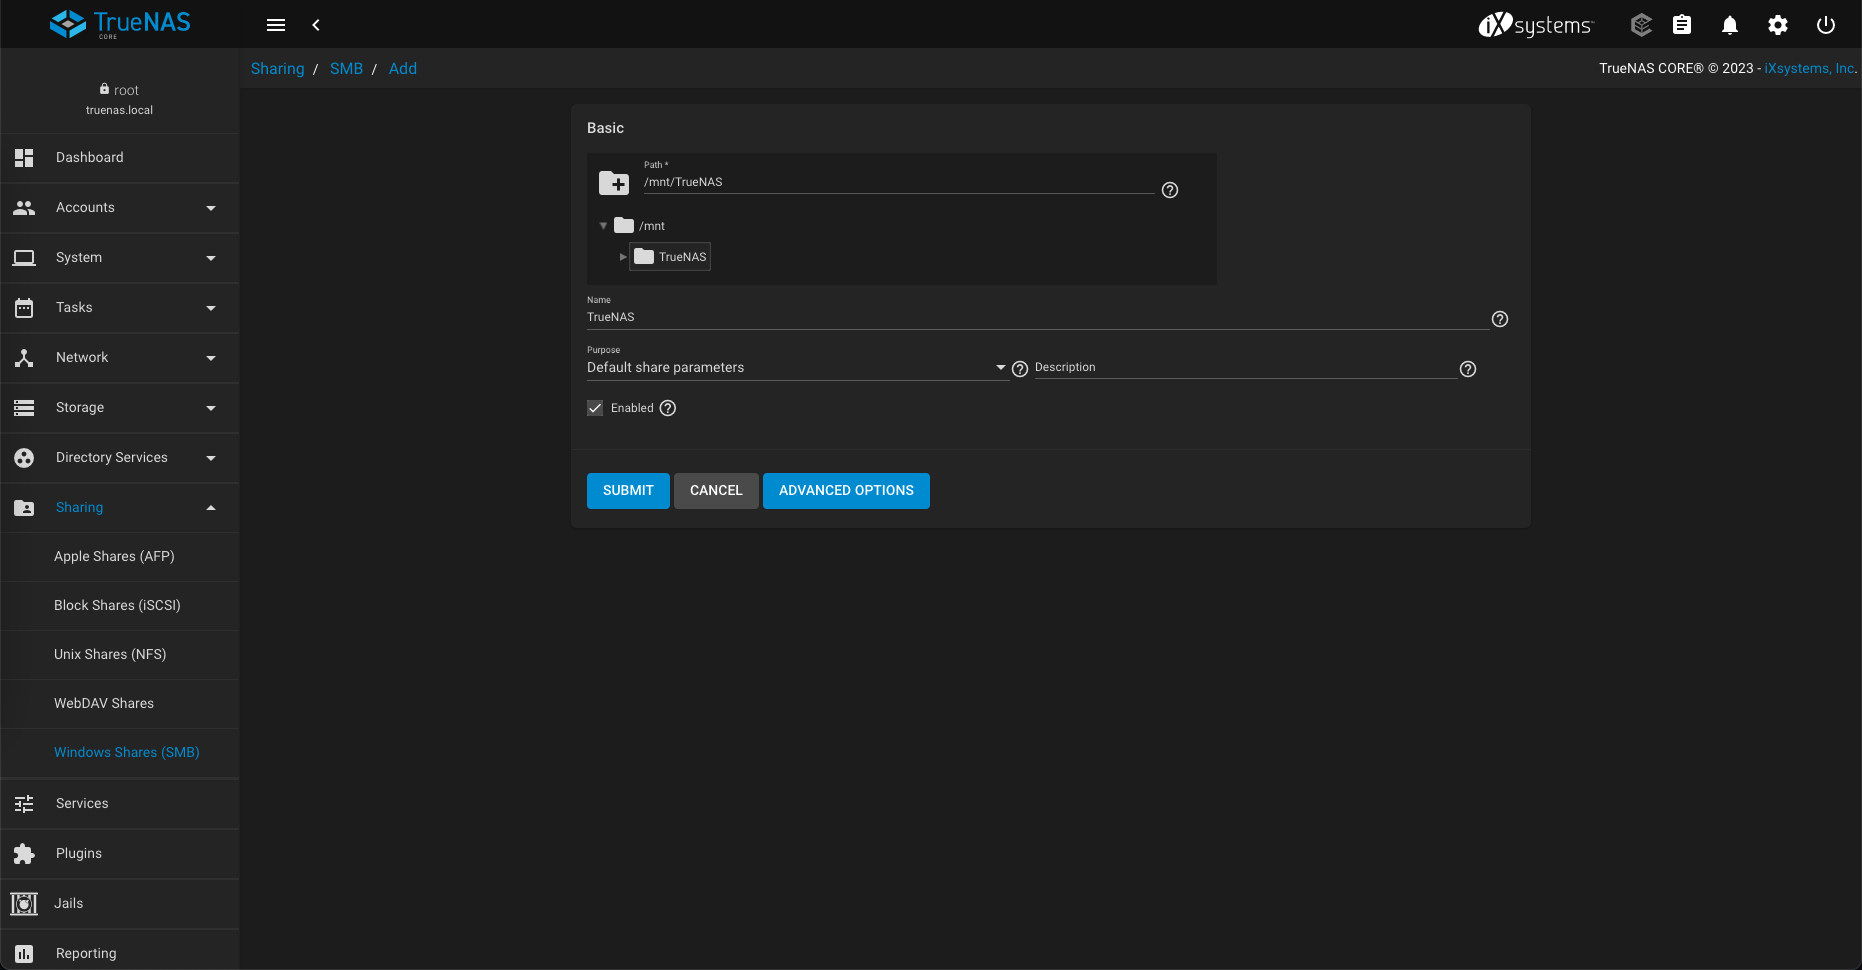
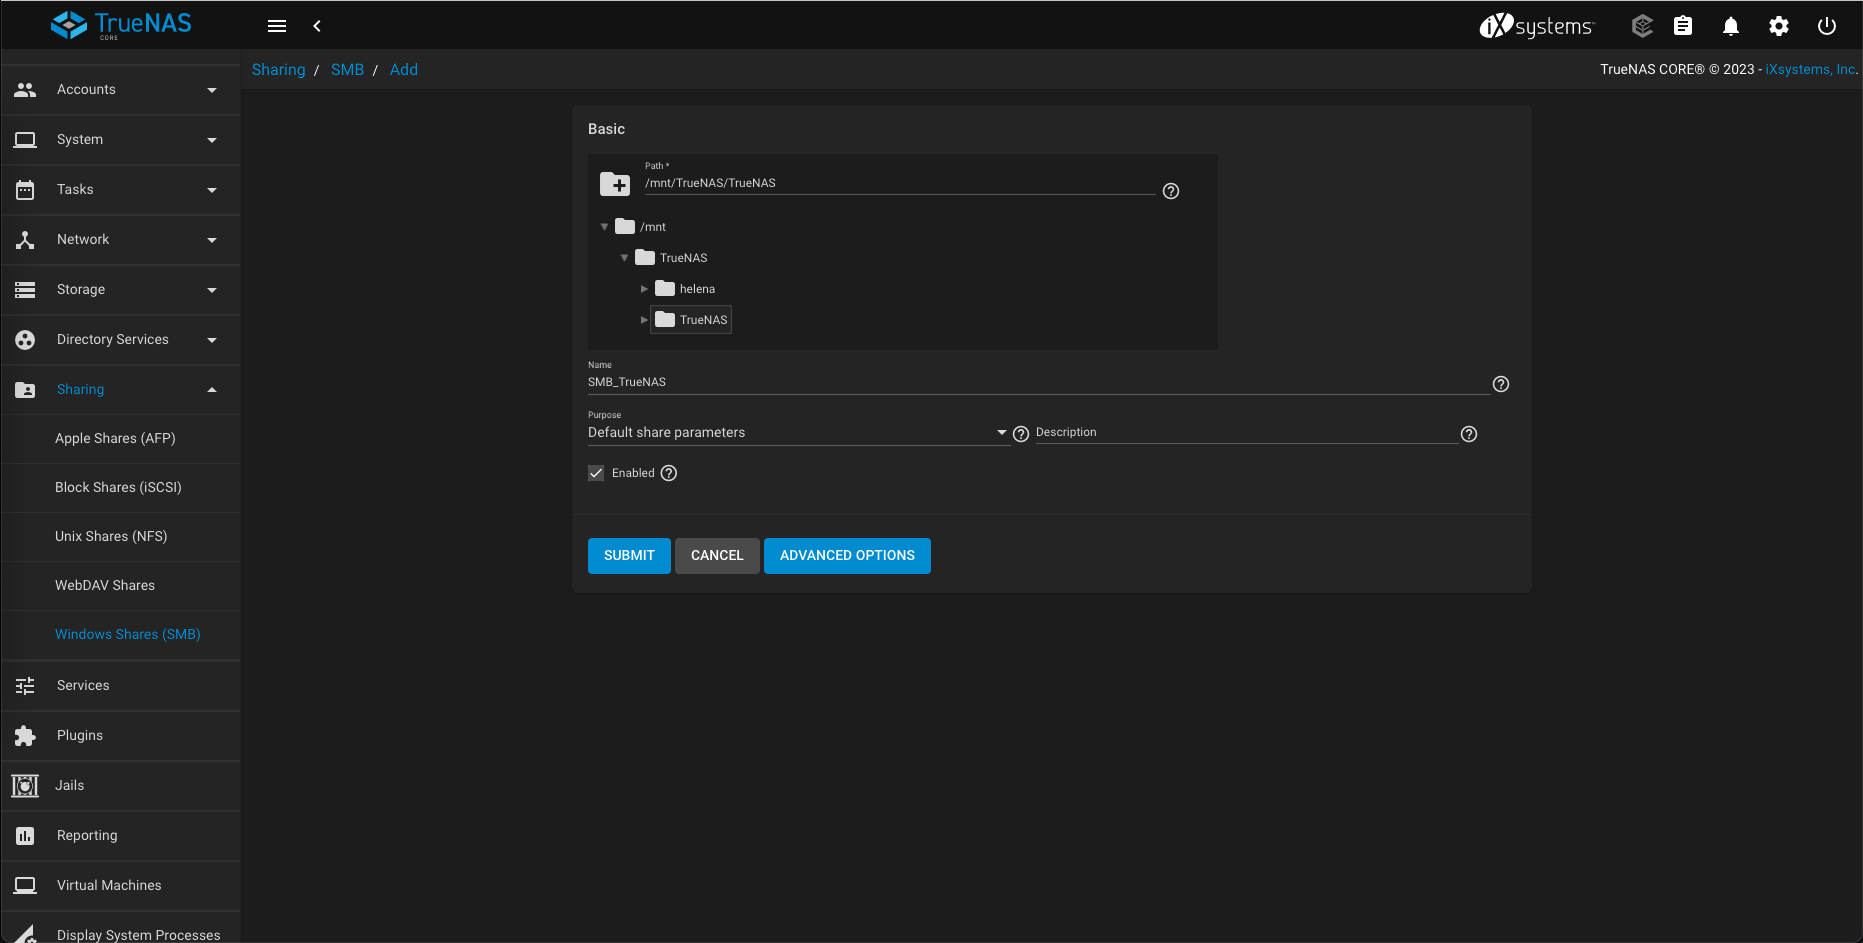
x

diff --git a/_posts/2023-09-15-truenas.md b/_posts/2023-09-15-truenas.md
@@ -1,5 +1,5 @@
 ---
-title: TrueNAS - NFS & SMB Share
+title: TrueNAS - NFS, SMB, iSCSI
 date: 2023-09-15 13:30:00 +0700
 categories: [Storage, TrueNAS]
 tags: [truenas]
@@ -9,7 +9,12 @@ tags: [truenas]
 
 ## What is TrueNAS?
 
-TrueNAS is an open-source network-attached storage (NAS) solution that provides a platform for managing and sharing data across a network. 
+TrueNAS is an open-source network-attached storage (NAS) solution that provides a platform for managing and sharing data across a network.  <br>
+
+> NFS (Network File System), SMB (Server Message Block), and iSCSI (Internet Small Computer System Interface) are three different network protocols used for sharing and accessing files and storage resources in computer networks. <br>
+> * NFS is used for sharing files primarily in Unix environments. <br>
+> * SMB is Windows' file sharing protocol but is also used in mixed environments. <br>
+> * iSCSI is for connecting storage devices to servers as block-level storage, often used in virtualization and SANs. <br>
 
 <br>
 <br>
@@ -78,11 +83,30 @@ There will be warning saying stripe data is discouraged, which is fine because w
 
 <br>
 
+Then on the created share, choose Add Dataset
+
+![x](/static/2023-09-15-truenas/20.png)
+
+<br>
+
+Give it a name and leave the rest as default, click submit
+
+![x](/static/2023-09-15-truenas/21.png)
+
+<br>
+
+This is what we end up with
+
+![x](/static/2023-09-15-truenas/22.png)
+
+<br>
+
 Next we create a NFS share, go to Sharing >> Unix Shares (NFS) >> Add
 
 ![x](/static/2023-09-15-truenas/11.png)
 
 <br>
+
 
 On Services, make sure NFS is enabled
 
@@ -120,6 +144,8 @@ Next we create the SMB share, go to Sharing >> Windows Share (SMB) >> Add
 
 ![x](/static/2023-09-15-truenas/15.png)
 
+Here we use the same pool as the one on NFS because we want the files to be interchangeable across two different shares
+
 <br>
 
 Make sure SMB Service is up
@@ -145,5 +171,90 @@ And we're golden.
 ![x](/static/2023-09-15-truenas/19.png)
 
 <br>
+<br>
 
+## Creating iSCSI Share
 
+Here we'll use the TenGig pool, select add Zvol
+
+![x](/static/2023-09-15-truenas/23.png)
+
+> "zvol" stands for "ZFS volume," and it's essentially a block device or virtual disk created within a ZFS storage pool
+
+<br>
+
+Configure it as below
+
+![x](/static/2023-09-15-truenas/24.png)
+
+> The "block size" in computer storage and file systems is the size of the smallest unit of data that can be stored or read from a storage device. Smaller is more efficient and larger has better performance especially for larger disk size
+
+<br>
+
+This is what we end up with
+
+![x](/static/2023-09-15-truenas/25.png)
+
+<br>
+
+Next we create the iSCSI share, go to Sharing >> Block Shares (iSCSI) >> Wizard. <br>
+Give it a name and point it to the zvol device just created
+
+![x](/static/2023-09-15-truenas/26.png)
+
+<br>
+
+We'll create a new portal with CHAP authentication
+
+![x](/static/2023-09-15-truenas/27.png)
+
+> CHAP (Challenge Handshake Authentication Protocol) is a security protocol used in iSCSI to establish a secure authentication mechanism between the initiator (the client) and the target (the storage device)
+
+<br>
+
+For initator, we'll leave it empty so any machine can connect
+
+![x](/static/2023-09-15-truenas/28.png)
+
+<br>
+
+Review, and submit
+
+![x](/static/2023-09-15-truenas/29.png)
+
+<br>
+
+We end up with having this one iSCSI portal
+
+![x](/static/2023-09-15-truenas/30.png)
+
+<br>
+
+Make sure the iSCSI service is up and running
+
+![x](/static/2023-09-15-truenas/31.png)
+
+<br>
+
+Now we try to initiate the connection from the windows machine. <br>
+Open iSCSI Initiator >> Discovery >> Discover Portal, enter the IP of TrueNAS
+
+![x](/static/2023-09-15-truenas/32.png)
+
+<br>
+
+The select advanced, enter the CHAP auth credetials
+
+![x](/static/2023-09-15-truenas/33.png)
+
+<br>
+
+Then on Targets, we'll see our TrueNAS share. Click connect
+
+![x](/static/2023-09-15-truenas/34.png)
+
+<br>
+
+Now it's connected. We can use the disk as if it was a locally attached disk
+
+<br>
